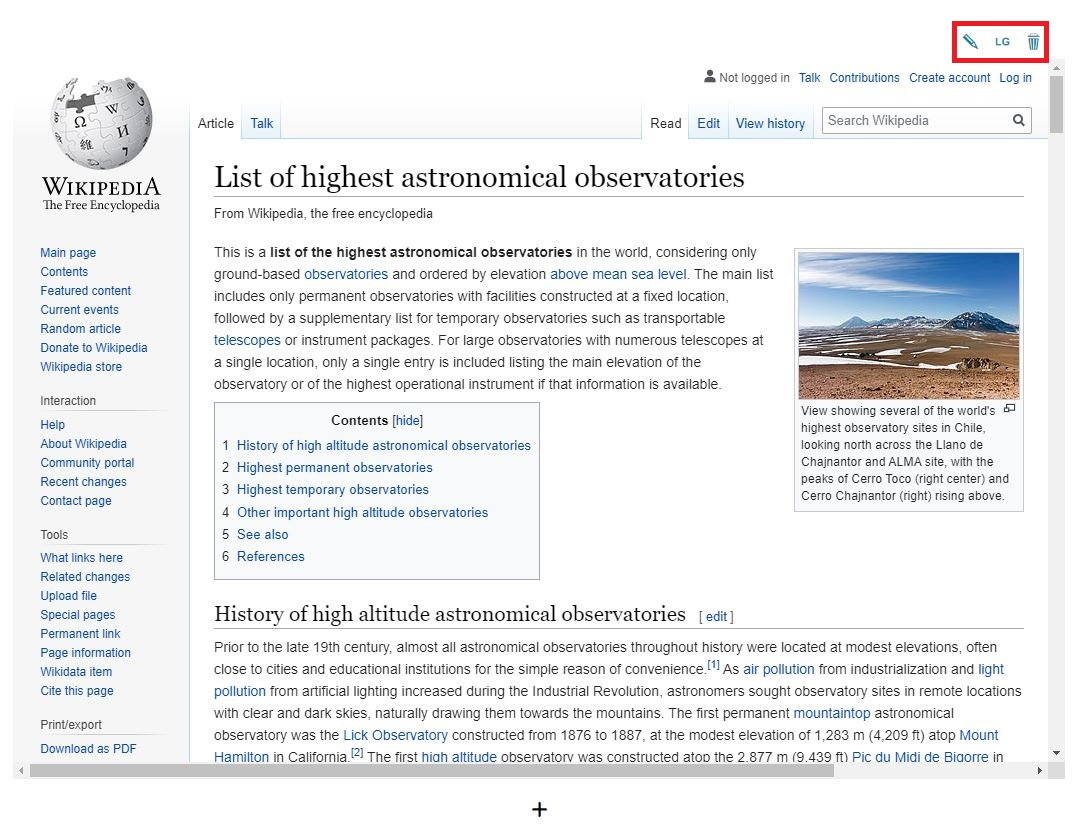
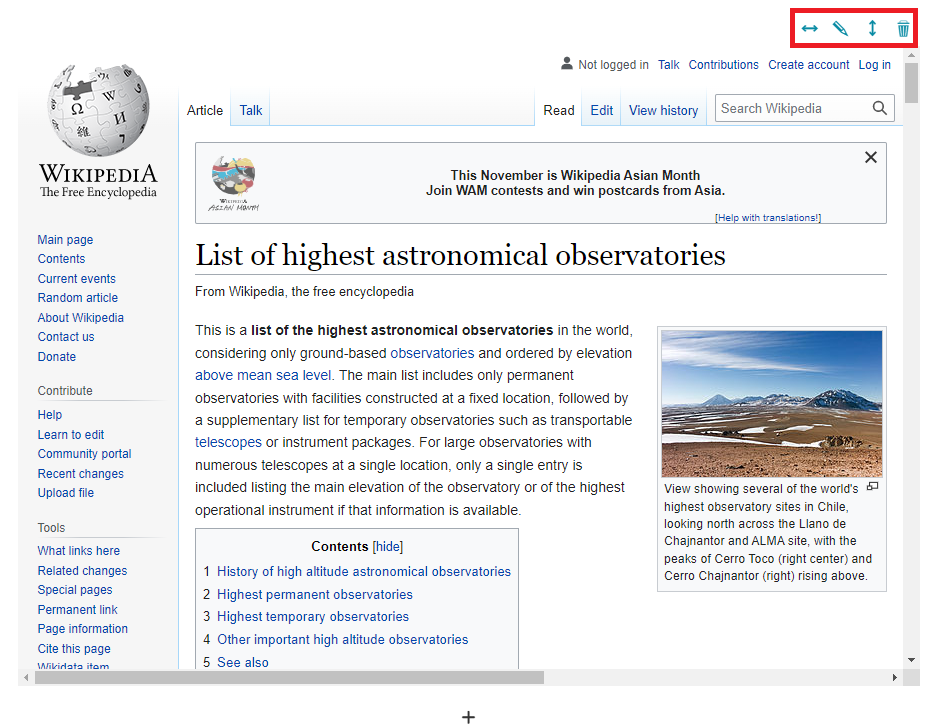
new_button

diff --git a/docs/user-guide/content-web-toolbar.md b/docs/user-guide/content-web-toolbar.md
@@ -4,10 +4,12 @@ As soon as a Web Page Content is added, the toolbar appears on top of the conten
 
 <img src="../img/web-section/web-toolbar.jpg" class="ms-docimage"/>
 
-In particular, through this toolbar, the user is able to perform the following operation:
+In particular, through this toolbar, the editor is able to perform the following operation:
+
+* **Change horizontal size** <img src="../img/button/change-size-horizontal.jpg" class="ms-docbutton"/> choosing between *Small*, *Medium*, *Large* and *Full*
 
 * **Edit web page URL** <img src="../img/button/change-media2.jpg" class="ms-docbutton"/> accessing the web page windows to change the web URL
 
-* **Change size** <img src="../img/button/change-size2.jpg" class="ms-docbutton"/> choosing between *Small*, *Medium*, *Large*
+* **Change vertical size** <img src="../img/button/change-size-vertical.jpg" class="ms-docbutton"/> choosing between *Small*, *Medium*, *Large*
 
 * **Remove** <img src="../img/button/remove2.jpg" class="ms-docbutton"/> the Web Page content
